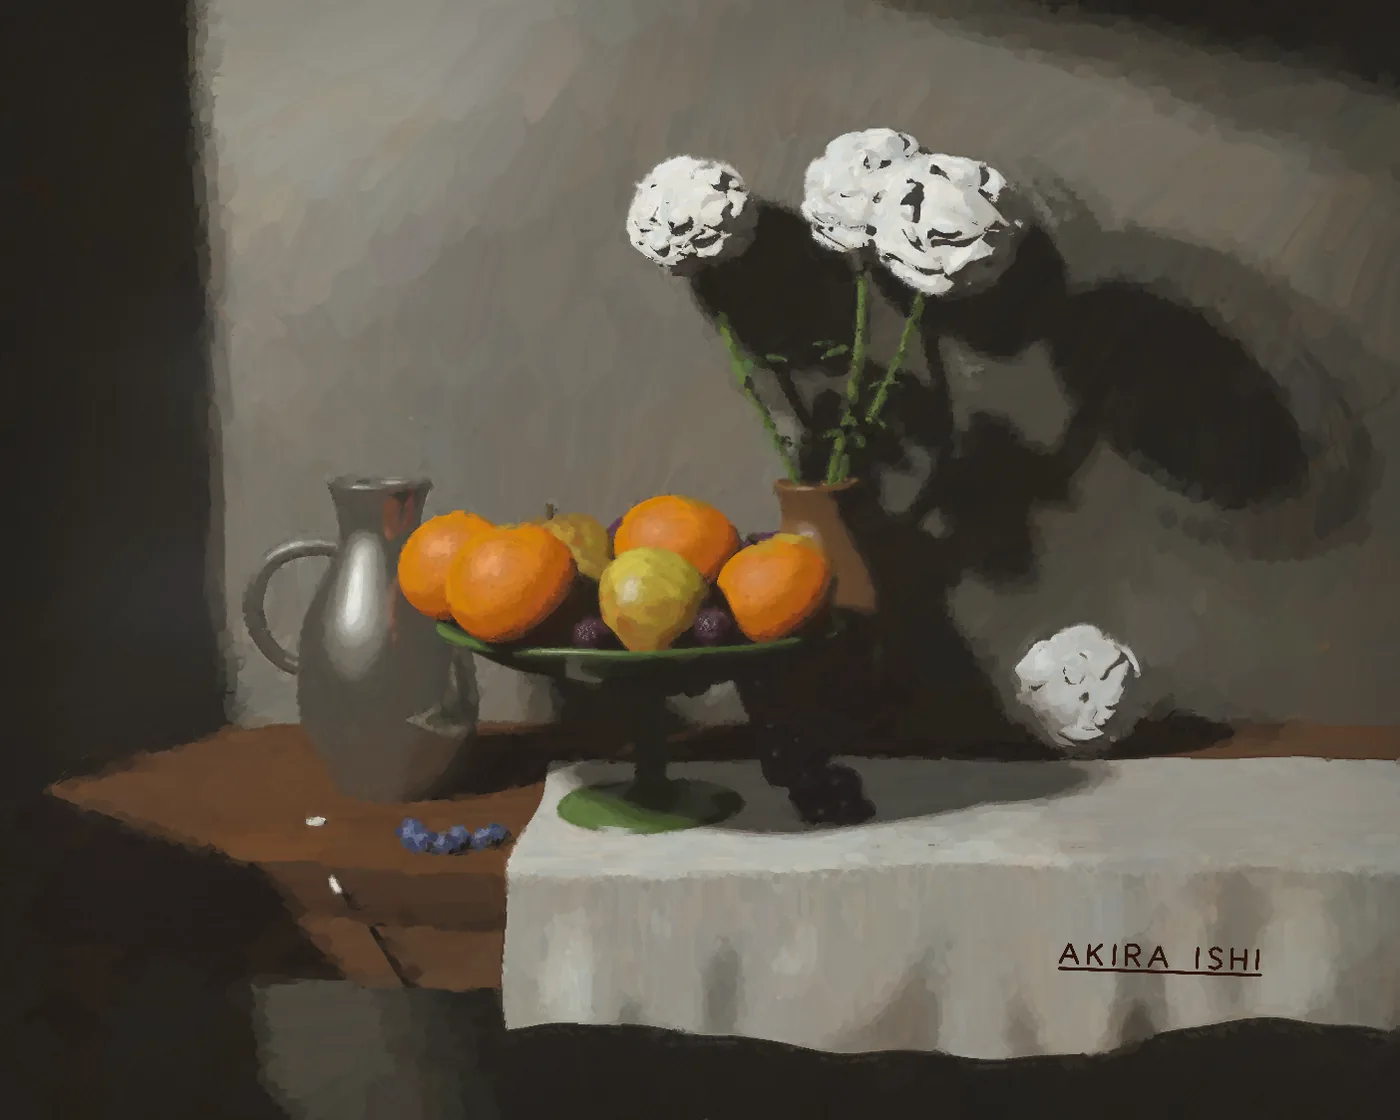
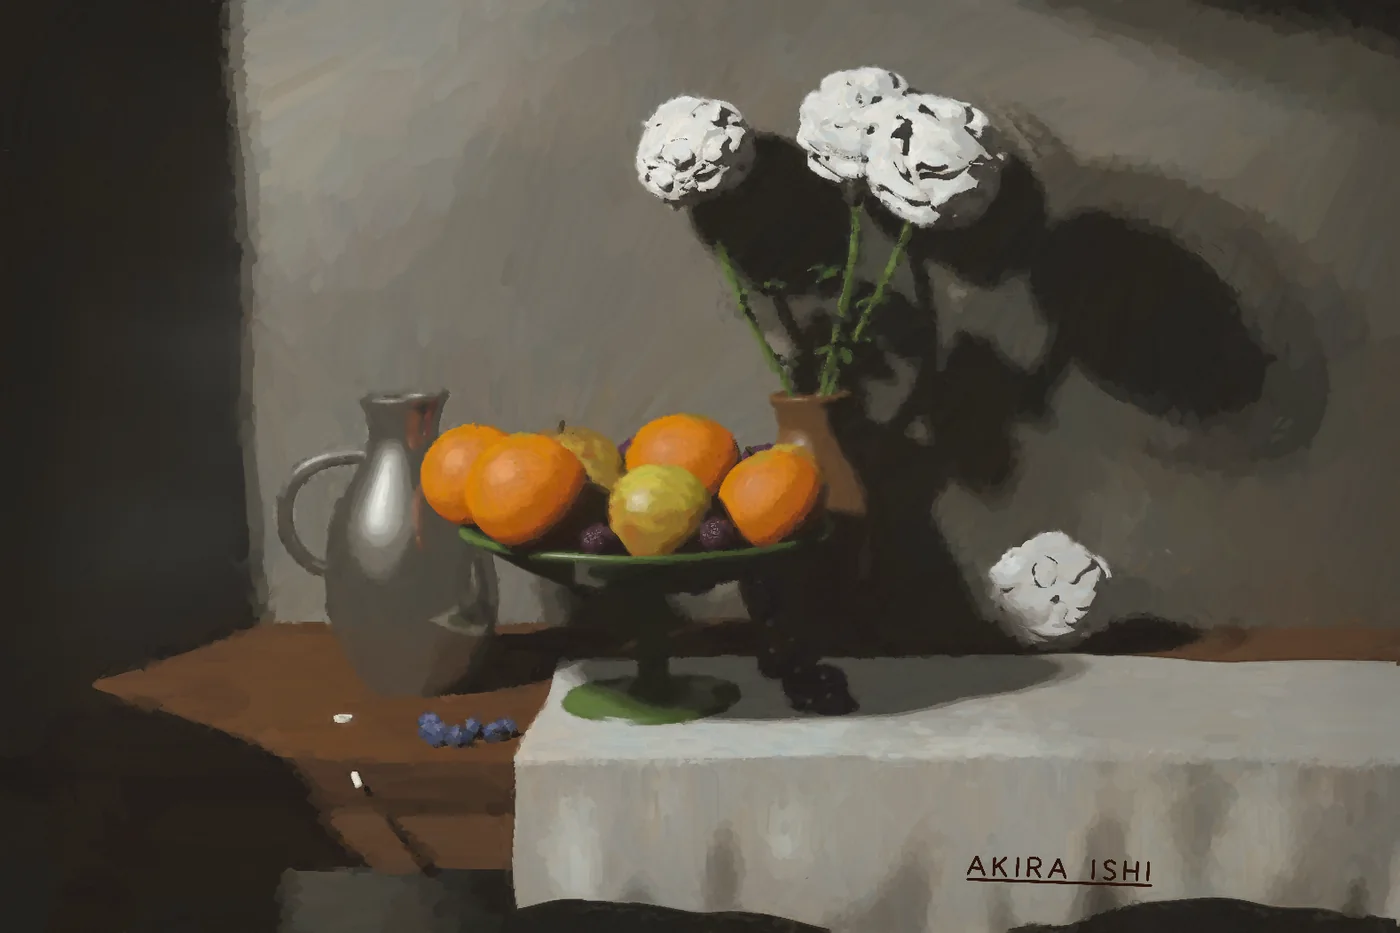
update website

diff --git a/i18n/fr.js b/i18n/fr.js
@@ -86,7 +86,6 @@ ui: {
 "shop.the-same-table-in-oil-acrylic": "Huile, acrylique, aquarelle, fusain, bleu cobalt sur carreaux de Delft, broderie de soie — ou Évanescence, où la lumière emporte la peinture de tout ce qu’elle touche. Une gravure est en préparation.",
 "shop.choose-how-crowded-the-table": "Choisissez si la table est chargée ou presque vide, puis la lumière, les fruits, les récipients, un crâne ou un miroir — et la scène se reconstruit autour de vos choix.",
 "shop.pick-a-finish-and-a-format": "Choisissez un format. Quand vous commandez, votre tableau est repeint pour le tirage, à 300 dpi, ce qui prend quelques minutes.",
-"shop.atelier-example-acrylic-alt": "Nature morte à l’acrylique : des roses roses dans un vase en faïence au-dessus d’une coupe de fruits en verre",
 "shop.acrylic": "Acrylique",
 "shop.atelier-example-watercolour-alt": "Nature morte à l’aquarelle : des marguerites dans un vase bleu, un crâne avec une bougie, un sablier et une coupe de pommes",
 "shop.watercolour": "Aquarelle",
@@ -158,6 +157,8 @@ ui: {
 "shop.work-candlemirror": "Nature morte à la bougie et au miroir",
 "shop.work-tulips": "Nature morte aux tulipes",
 "shop.work-daisies": "Nature morte aux marguerites",
+"shop.hero-alt": "Une nature morte à l’acrylique : des tournesols dans un vase en terre cuite près d’une coupe de pommes et d’oranges sur une nappe blanche, à la lumière d’une fenêtre",
+"shop.atelier-example-acrylic-alt": "Nature morte à l’acrylique : des coquelicots rouges dans un vase en faïence au-dessus d’une coupe de fruits, avec une bougie derrière",
 "shop.the-artist": "L'artiste",
 "shop.about-akira-ishi": "À propos d'Akira Ishi",
 "shop.akira-ishi-is-a-french-artist": "Akira Ishi est un artiste français qui travaille avec le code. Son travail cherche la simplicité avec de la profondeur : des formes minimales pour dire des idées complexes, au fil d'un processus patient, itératif et très personnel.",

diff --git a/i18n/ja.js b/i18n/ja.js
@@ -86,7 +86,6 @@ ui: {
 "shop.the-same-table-in-oil-acrylic": "油彩、アクリル、水彩、木炭、デルフトのタイルのコバルト、絹の刺繍 ── そして Evanescence。光が触れたものから絵具を奪っていきます。銅版画も準備中です。",
 "shop.choose-how-crowded-the-table": "テーブルの混み具合、そして光、果物、器、髑髏や鏡の有無を選べば、場面はその選択に合わせて組み直されます。",
 "shop.pick-a-finish-and-a-format": "フォーマットを選びます。ご注文の際、印刷用にもう一度 300 dpi で描き直します（数分かかります）。",
-"shop.atelier-example-acrylic-alt": "アクリルの静物画：陶器の花瓶のピンクのバラと、ガラスの脚付き果物鉢",
 "shop.acrylic": "アクリル",
 "shop.atelier-example-watercolour-alt": "水彩の静物画：青い花瓶のデイジー、ろうそくを立てたドクロ、砂時計、りんごの鉢",
 "shop.watercolour": "水彩",
@@ -158,6 +157,8 @@ ui: {
 "shop.work-candlemirror": "ろうそくと鏡の静物画",
 "shop.work-tulips": "チューリップの静物画",
 "shop.work-daisies": "デイジーの静物画",
+"shop.hero-alt": "アクリルで描かれた静物画：テラコッタの花瓶のひまわりと、白いクロスの上のりんごとオレンジの鉢、窓の光の中で",
+"shop.atelier-example-acrylic-alt": "アクリルの静物画：陶器の花瓶の赤いポピーと果物鉢、その後ろにろうそく",
 "shop.the-artist": "アーティスト",
 "shop.about-akira-ishi": "Akira Ishi について",
 "shop.akira-ishi-is-a-french-artist": "Akira Ishi はコードで制作するフランスのアーティストです。目指しているのは「シンプルなのに奥がある」こと。最小限のかたちで複雑な考えを語るために、根気よく、何度も手を入れながら、ごく個人的なやり方で制作しています。",

diff --git a/shop.html b/shop.html
@@ -37,7 +37,7 @@
     <link rel="canonical" href="https://akiraishi.com/shop.html">
 
     <!-- Hero artwork carries the largest paint -->
-    <link rel="preload" as="image" href="images/atelier/slc-acrylic.webp" fetchpriority="high">
+    <link rel="preload" as="image" href="images/atelier/slc-hero.webp" fetchpriority="high">
 
     <!-- Stylesheets -->
     <link rel="stylesheet" href="shop.css">
@@ -89,9 +89,9 @@
                 </div>
 
                 <figure class="hero-figure">
-                    <img src="images/atelier/slc-acrylic.webp" decoding="async"
-                         alt="Acrylic still life: pink roses in a faience vase above a glass bowl of fruit on a stem"
-                         data-i18n-alt="shop.atelier-example-acrylic-alt">
+                    <img src="images/atelier/slc-hero.webp" width="900" height="1125" decoding="async"
+                         alt="A still life painted in acrylic: sunflowers in a terracotta vase beside a bowl of apples and oranges on a white cloth, in window light"
+                         data-i18n-alt="shop.hero-alt">
                 </figure>
             </div>
         </section>
@@ -223,8 +223,8 @@
 
                 <figure class="atelier-examples reveal">
                     <div class="atelier-example">
-                        <img src="images/atelier/slc-acrylic.webp" width="900" height="1125" loading="lazy" decoding="async"
-                             alt="Acrylic still life: pink roses in a faience vase above a glass bowl of fruit on a stem"
+                        <img src="images/atelier/slc-acrylic.webp" width="900" height="720" loading="lazy" decoding="async"
+                             alt="Acrylic still life: red poppies in a faience vase above a bowl of fruit, with a candle behind"
                              data-i18n-alt="shop.atelier-example-acrylic-alt">
                         <span data-i18n="shop.acrylic">Acrylic</span>
                     </div>

diff --git a/i18n/de.js b/i18n/de.js
@@ -86,7 +86,6 @@ ui: {
 "shop.the-same-table-in-oil-acrylic": "Öl, Acryl, Aquarell, Kohle, Kobaltblau auf Delfter Fliesen, Seidenstickerei — oder Evanescence, wo das Licht die Farbe von allem abhebt, was es berührt. Eine Radierung ist in Arbeit.",
 "shop.choose-how-crowded-the-table": "Wählen Sie, wie voll der Tisch ist, dann Licht, Früchte, Gefäße, einen Totenkopf oder einen Spiegel — und die Szene wird um Ihre Wahl herum neu gebaut.",
 "shop.pick-a-finish-and-a-format": "Wählen Sie ein Format. Wenn Sie bestellen, wird Ihr Bild für den Druck noch einmal gemalt, mit 300 dpi, was ein paar Minuten dauert.",
-"shop.atelier-example-acrylic-alt": "Stillleben in Acryl: rosa Rosen in einer Fayence-Vase über einer gläsernen Obstschale",
 "shop.acrylic": "Acryl",
 "shop.atelier-example-watercolour-alt": "Stillleben in Aquarell: Margeriten in einer blauen Vase, ein Totenkopf mit Kerze, eine Sanduhr und eine Schale Äpfel",
 "shop.watercolour": "Aquarell",
@@ -158,6 +157,8 @@ ui: {
 "shop.work-candlemirror": "Stillleben mit Kerze und Spiegel",
 "shop.work-tulips": "Stillleben mit Tulpen",
 "shop.work-daisies": "Stillleben mit Margeriten",
+"shop.hero-alt": "Ein Stillleben in Acryl: Sonnenblumen in einer Terrakotta-Vase neben einer Schale mit Äpfeln und Orangen auf einem weißen Tuch, im Fensterlicht",
+"shop.atelier-example-acrylic-alt": "Stillleben in Acryl: rote Mohnblumen in einer Fayence-Vase über einer Obstschale, dahinter eine Kerze",
 "shop.the-artist": "Der Künstler",
 "shop.about-akira-ishi": "Über Akira Ishi",
 "shop.akira-ishi-is-a-french-artist": "Akira Ishi ist ein französischer Künstler, der mit Code arbeitet. Seine Arbeit sucht Einfachheit mit Tiefe: minimale Formen für komplexe Gedanken, entstanden in einem geduldigen, schrittweisen und sehr persönlichen Prozess.",

diff --git a/i18n/es.js b/i18n/es.js
@@ -86,7 +86,6 @@ ui: {
 "shop.the-same-table-in-oil-acrylic": "Óleo, acrílico, acuarela, carboncillo, azul cobalto sobre azulejos de Delft, bordado en seda — o Evanescence, donde la luz arranca la pintura de todo lo que toca. Un grabado viene en camino.",
 "shop.choose-how-crowded-the-table": "Elige si la mesa va cargada o casi vacía, y después la luz, la fruta, las vasijas, una calavera o un espejo — y la escena se reconstruye a tu medida.",
 "shop.pick-a-finish-and-a-format": "Elige un formato. Cuando haces el pedido, tu cuadro se vuelve a pintar para la lámina, a 300 ppp, lo que lleva unos minutos.",
-"shop.atelier-example-acrylic-alt": "Bodegón al acrílico: rosas rosadas en un jarrón de loza sobre una copa de cristal con fruta",
 "shop.acrylic": "Acrílico",
 "shop.atelier-example-watercolour-alt": "Bodegón a la acuarela: margaritas en un jarrón azul, una calavera con una vela, un reloj de arena y un frutero de manzanas",
 "shop.watercolour": "Acuarela",
@@ -158,6 +157,8 @@ ui: {
 "shop.work-candlemirror": "Bodegón con vela y espejo",
 "shop.work-tulips": "Bodegón con tulipanes",
 "shop.work-daisies": "Bodegón con margaritas",
+"shop.hero-alt": "Un bodegón al acrílico: girasoles en un jarrón de terracota junto a un frutero de manzanas y naranjas sobre un mantel blanco, a la luz de una ventana",
+"shop.atelier-example-acrylic-alt": "Bodegón al acrílico: amapolas rojas en un jarrón de loza sobre un frutero, con una vela detrás",
 "shop.the-artist": "El artista",
 "shop.about-akira-ishi": "Sobre Akira Ishi",
 "shop.akira-ishi-is-a-french-artist": "Akira Ishi es un artista francés que trabaja con código. Su obra busca la sencillez con fondo: formas mínimas para decir ideas complejas, a través de un proceso paciente, iterativo y muy personal.",

diff --git a/i18n/zh.js b/i18n/zh.js
@@ -86,7 +86,6 @@ ui: {
 "shop.the-same-table-in-oil-acrylic": "油画、丙烯、水彩、炭笔、代尔夫特瓷砖上的钴蓝、丝线刺绣 —— 还有 Evanescence：光把它所触及的一切上的颜料都带走。版画也在路上。",
 "shop.choose-how-crowded-the-table": "先选桌上摆得满还是疏，再选光线、水果、器皿，要不要骷髅或镜子 —— 整个场景会照你的选择重新搭起来。",
 "shop.pick-a-finish-and-a-format": "选好画幅。下单时，你的画会为印刷以 300 dpi 重新画一遍，需要几分钟。",
-"shop.atelier-example-acrylic-alt": "丙烯静物：彩陶花瓶里的粉玫瑰，下方是玻璃高脚果盘",
 "shop.acrylic": "丙烯",
 "shop.atelier-example-watercolour-alt": "水彩静物：蓝花瓶中的雏菊、插着蜡烛的骷髅、沙漏和一碗苹果",
 "shop.watercolour": "水彩",
@@ -158,6 +157,8 @@ ui: {
 "shop.work-candlemirror": "烛光与镜子静物",
 "shop.work-tulips": "郁金香静物",
 "shop.work-daisies": "雏菊静物",
+"shop.hero-alt": "丙烯静物：陶土花瓶里的向日葵，旁边是白桌布上的一盘苹果和橙子，窗光照入",
+"shop.atelier-example-acrylic-alt": "丙烯静物：彩陶花瓶中的红罂粟，下方是果盘，后面有一支蜡烛",
 "shop.the-artist": "艺术家",
 "shop.about-akira-ishi": "关于 Akira Ishi",
 "shop.akira-ishi-is-a-french-artist": "Akira Ishi 是一位用代码创作的法国艺术家。作品追求「简单，但有分量」：用最少的形状说出复杂的想法，过程耐心、反复打磨，也非常私人。",

diff --git a/shop.css b/shop.css
@@ -309,9 +309,9 @@ a {
 }
 
 .hero-figure img {
+  display: block;
   width: 100%;
-  aspect-ratio: 1 / 1;
-  object-fit: cover;
+  height: auto;          /* the picture whole, in its own format: nothing is cut */
 }
 
 .hero-figure figcaption {
@@ -356,9 +356,9 @@ a {
 }
 
 .shop-card-figure img {
+  display: block;
   width: 100%;
-  aspect-ratio: 4 / 3;
-  object-fit: cover;
+  height: auto;
 }
 
 .shop-platform {
@@ -690,7 +690,7 @@ html.atelier-noscroll .atelier { transform: none !important; transition: none !i
 .atelier-poster img {
   width: 100%;
   height: 100%;
-  object-fit: cover;
+  object-fit: contain;   /* the whole painting, on the dark of the stage: nothing is cut */
   opacity: 0.55;
 }
 
